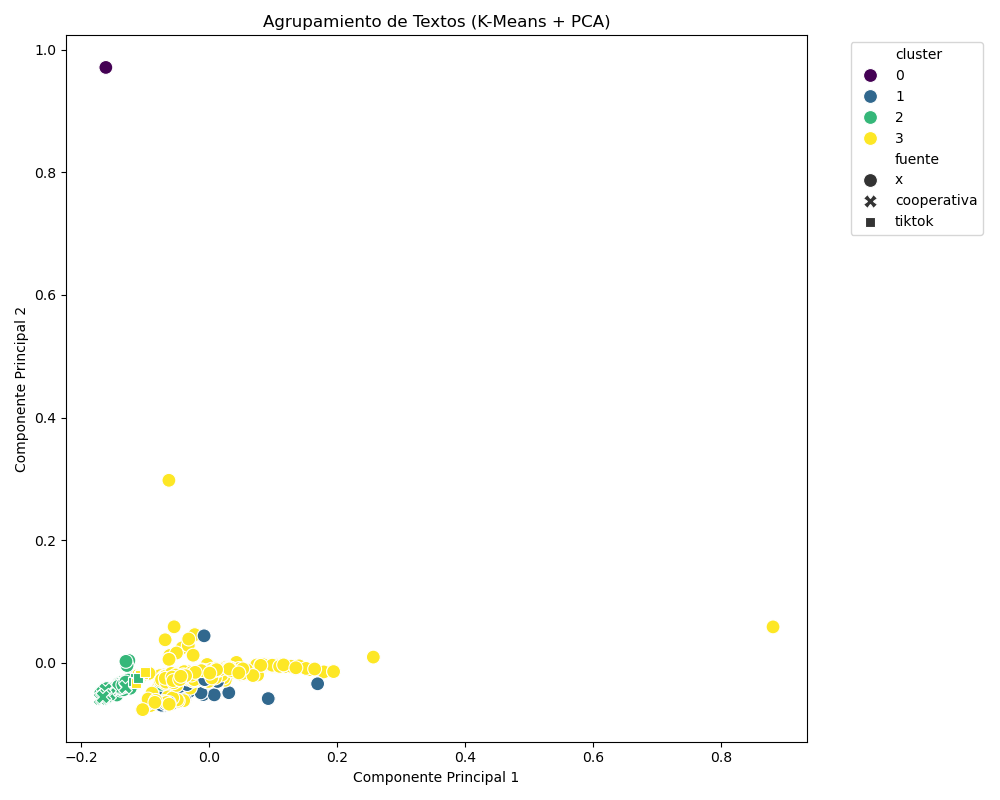
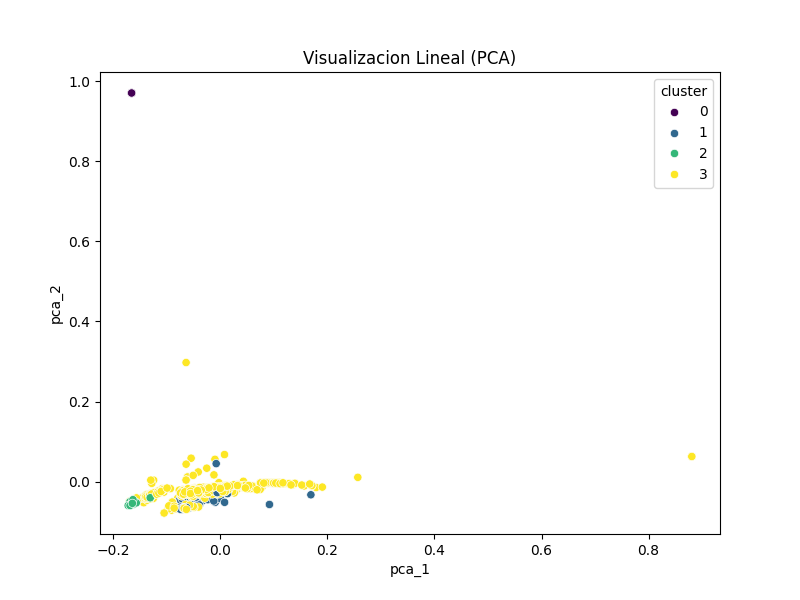
nubes

diff --git a/analisis.py b/analisis.py
@@ -6,68 +6,58 @@ import seaborn as sns
 from sklearn.feature_extraction.text import TfidfVectorizer
 from sklearn.cluster import KMeans
 from sklearn.decomposition import PCA
+from sklearn.manifold import TSNE
+from wordcloud import WordCloud
 
 def ejecutar_analisis(df):
     vectorizer = TfidfVectorizer(max_features=1000)
     tfidf_matrix = vectorizer.fit_transform(df["texto_limpio"])
-    
-    n_clusters = 4 if len(df) >= 4 else max(1, len(df))
+    n_clusters = 4
     
     # Clustering
     kmeans = KMeans(n_clusters=n_clusters, random_state=42, n_init=10)
     df["cluster"] = kmeans.fit_predict(tfidf_matrix)
     
-    # PCA
-    if tfidf_matrix.shape[0] >= 2 and tfidf_matrix.shape[1] >= 2:
-        pca = PCA(n_components=2, random_state=42)
-        pca_result = pca.fit_transform(tfidf_matrix.toarray())
-        df["pca_1"] = pca_result[:, 0]
-        df["pca_2"] = pca_result[:, 1]
-    else:
-        df["pca_1"] = 0
-        df["pca_2"] = 0
+    # PCA (Lineal)
+    pca = PCA(n_components=2, random_state=42)
+    pca_res = pca.fit_transform(tfidf_matrix.toarray())
+    df["pca_1"], df["pca_2"] = pca_res[:, 0], pca_res[:, 1]
+    
+    # t-SNE (No Lineal) - EXIGENCIA DEL PROFE
+    tsne = TSNE(n_components=2, perplexity=min(30, len(df)-1), random_state=42)
+    tsne_res = tsne.fit_transform(tfidf_matrix.toarray())
+    df["tsne_1"], df["tsne_2"] = tsne_res[:, 0], tsne_res[:, 1]
+    
+    if not os.path.exists("images"): os.makedirs("images")
         
-    # Graficos para Latex
-    if not os.path.exists("images"):
-        os.makedirs("images")
-        
-    # 1. Grafico Scatter (PCA)
-    plt.figure(figsize=(10, 8))
-    style_param = "fuente" if df["fuente"].nunique() > 1 else None
-    sns.scatterplot(
-        x="pca_1", y="pca_2", hue="cluster", style=style_param, 
-        data=df, palette="viridis", s=100
-    )
-    plt.title("Agrupamiento de Textos (K-Means + PCA)")
-    plt.xlabel("Componente Principal 1")
-    plt.ylabel("Componente Principal 2")
-    plt.legend(bbox_to_anchor=(1.05, 1), loc='upper left')
-    plt.tight_layout()
+    # Grafico PCA
+    plt.figure(figsize=(8, 6))
+    sns.scatterplot(x="pca_1", y="pca_2", hue="cluster", data=df, palette="viridis")
+    plt.title("Visualizacion Lineal (PCA)")
     plt.savefig("images/pca_clusters.png")
     plt.close()
-    
-    # 2. Grafico de Barras (Frecuencias TF-IDF)
-    pesos_totales = np.asarray(tfidf_matrix.sum(axis=0)).ravel()
-    vocabulario = vectorizer.get_feature_names_out()
-    df_frec = pd.DataFrame({'Palabra': vocabulario, 'Peso': pesos_totales})
-    df_frec = df_frec.sort_values(by='Peso', ascending=False).head(10)
-    
-    plt.figure(figsize=(10, 6))
-    sns.barplot(x='Peso', y='Palabra', data=df_frec, palette='magma')
-    plt.title("Top 10 Palabras Mas Relevantes del Corpus")
-    plt.xlabel("Peso TF-IDF Acumulado")
-    plt.ylabel("Palabra")
-    plt.tight_layout()
-    plt.savefig("images/grafico_frecuencias.png")
+
+    # Grafico t-SNE (No Lineal)
+    plt.figure(figsize=(8, 6))
+    sns.scatterplot(x="tsne_1", y="tsne_2", hue="cluster", data=df, palette="magma")
+    plt.title("Visualizacion No Lineal (t-SNE)")
+    plt.savefig("images/tsne_clusters.png")
     plt.close()
     
-    # Datos para tabla de Latex
+    # Nubes de palabras - EXIGENCIA DEL PROFE
+    vocabulario = vectorizer.get_feature_names_out()
+    for i in range(n_clusters):
+        textos_cluster = " ".join(df[df["cluster"] == i]["texto_limpio"])
+        if textos_cluster.strip():
+            wc = WordCloud(width=800, height=400, background_color="white").generate(textos_cluster)
+            wc.to_file(f"images/nube_cluster_{i}.png")
+            
+    # Datos para tabla Latex
     print("\n--- COPIAR PARA LA TABLA DE LATEX ---")
     centroides = kmeans.cluster_centers_
     for i in range(n_clusters):
         indices_top = centroides[i].argsort()[-5:][::-1]
         palabras = [vocabulario[ind] for ind in indices_top]
         print(f"{i} & {', '.join(palabras)} \\\\ \\hline")
-    print("-------------------------------------\n")
     
     return df
